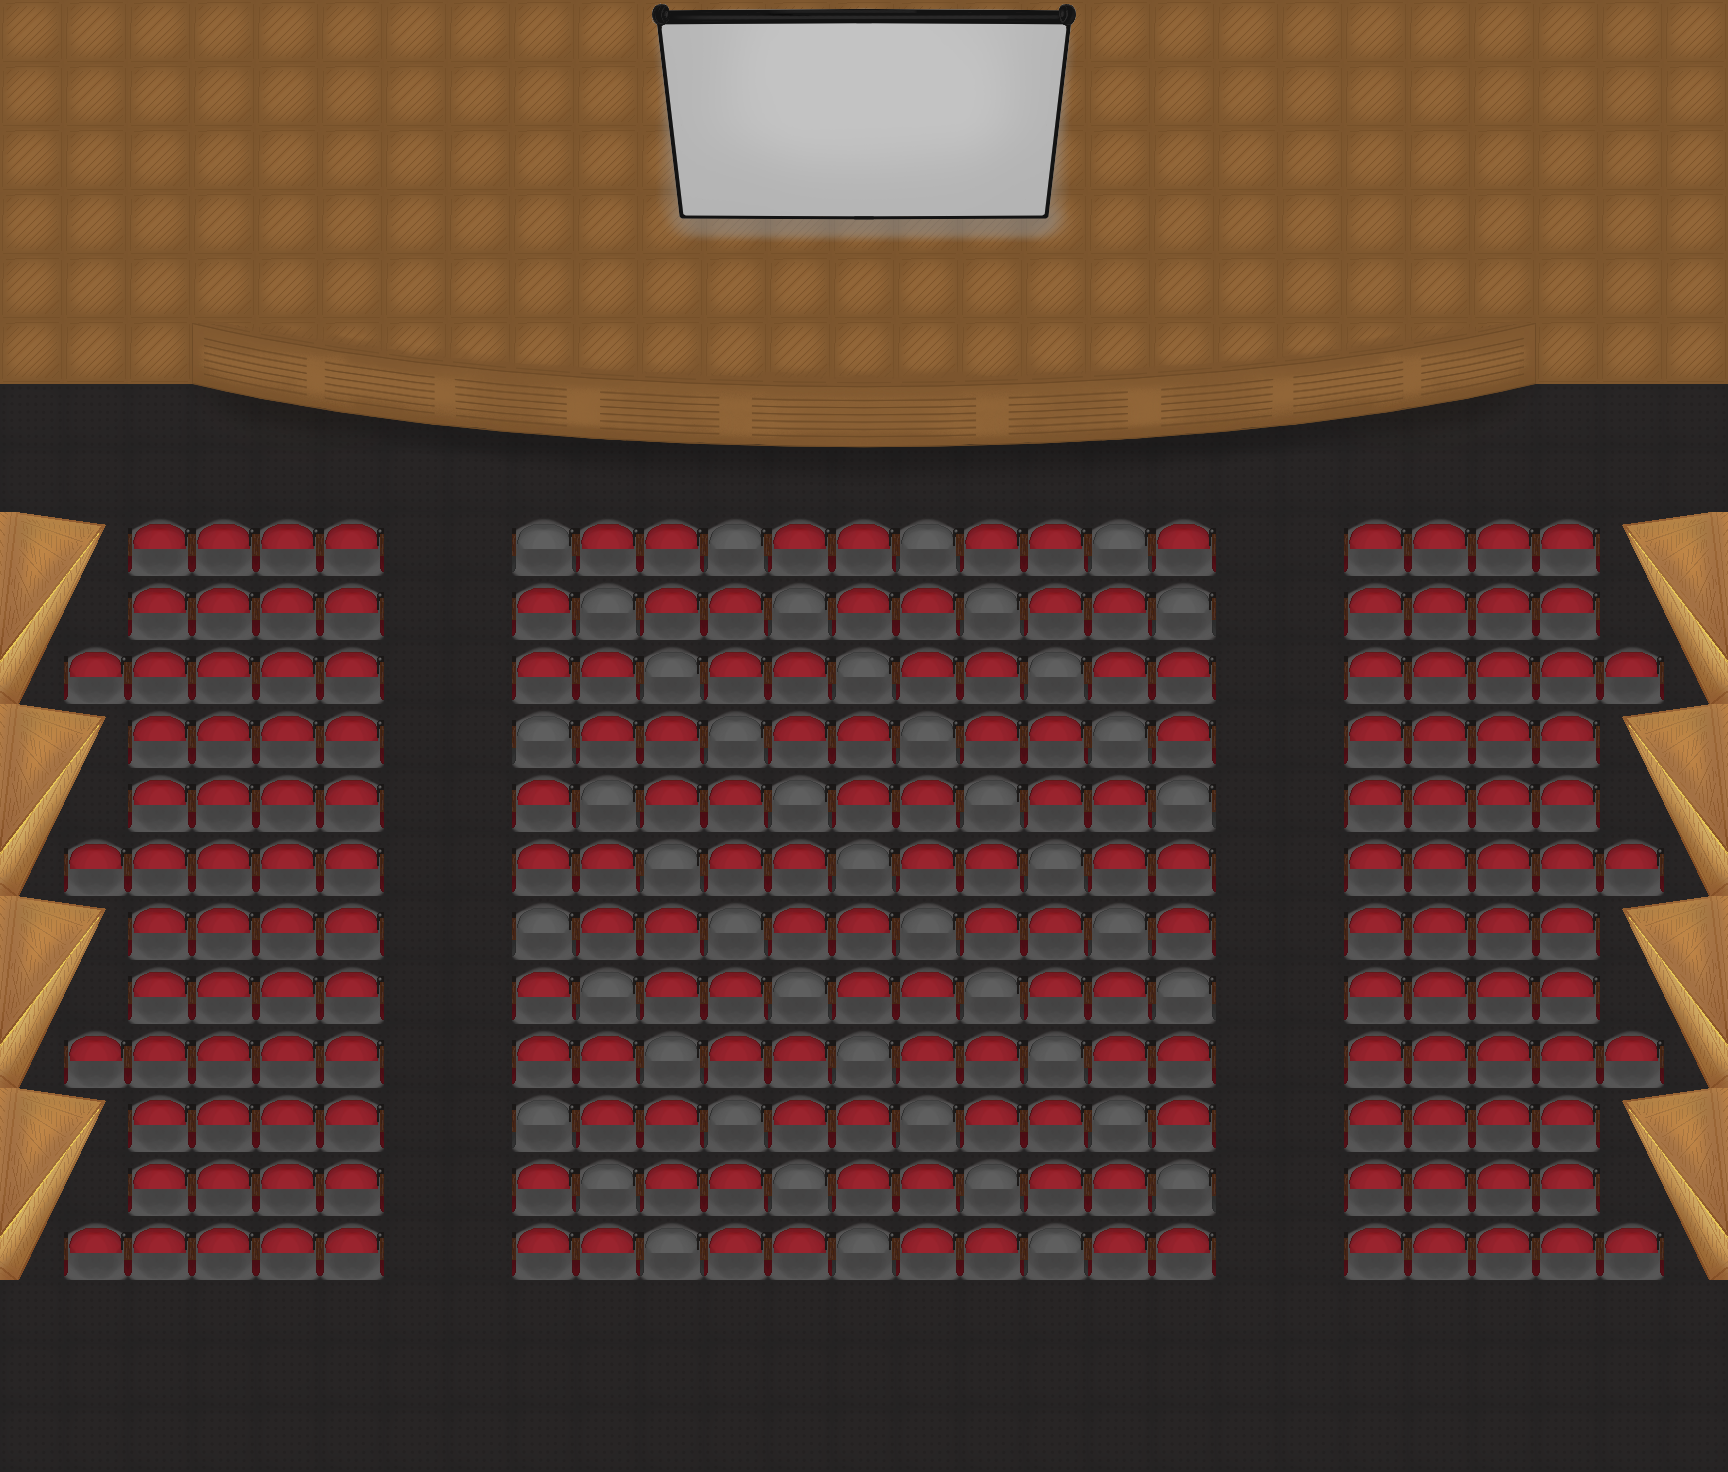
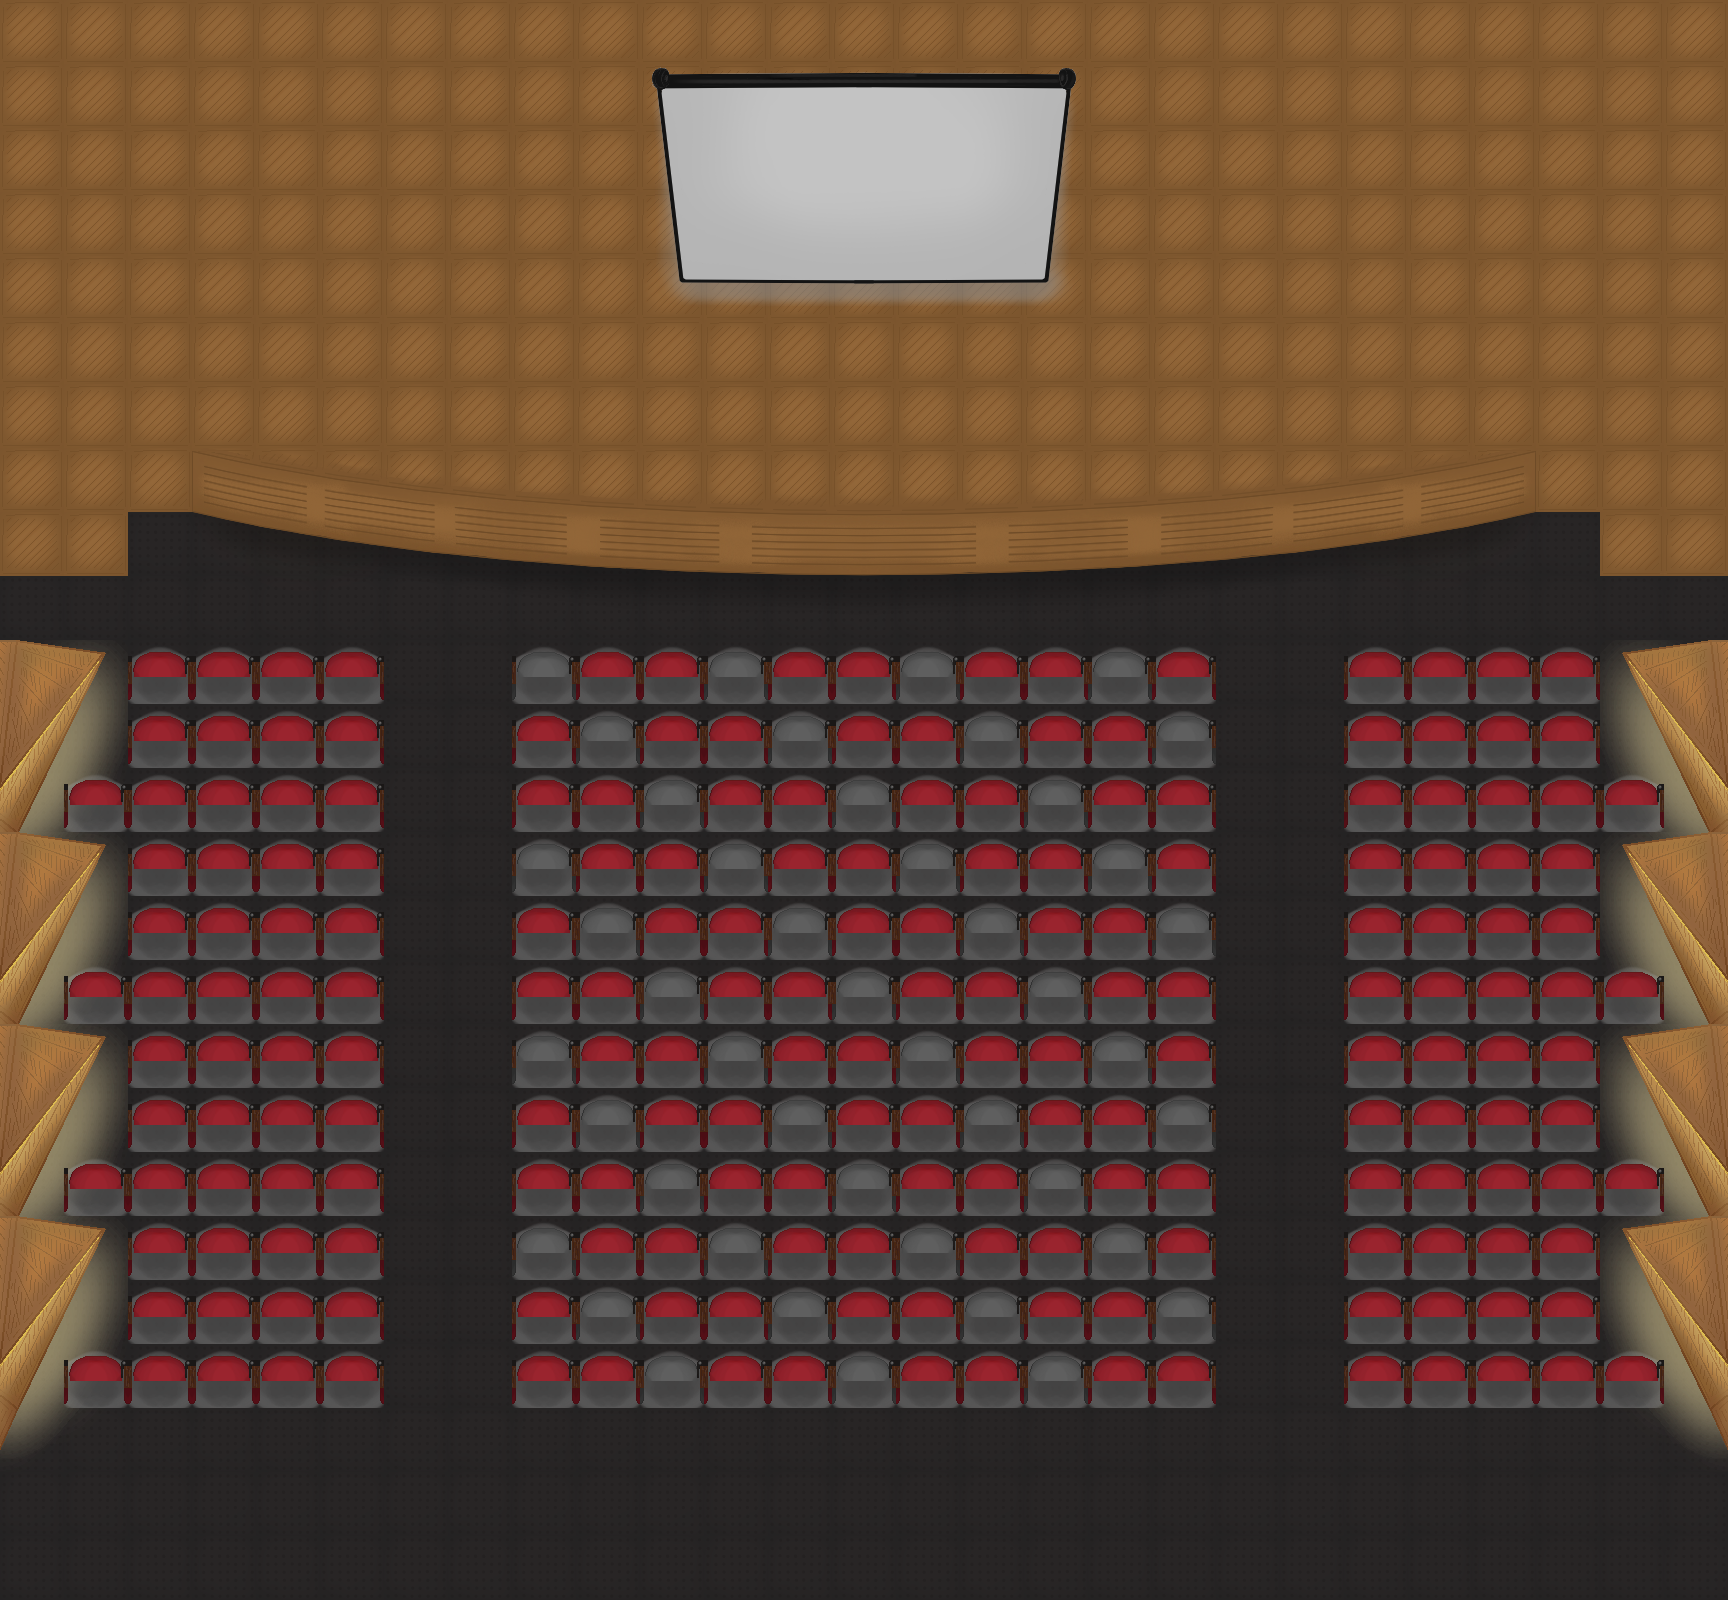
010

diff --git a/images.py b/images.py
@@ -32,10 +32,11 @@ def init():
     print('cargando mapa...')
 
     map1 = np.zeros((tabla_alto * step, tabla_ancho * step, 4), np.uint8)       # crea el primer mapa (piso)
-    
+    map2 = np.zeros((tabla_alto * step, tabla_ancho * step, 4), np.uint8)
+
     for nn in range(tabla_alto):
         for mm in range(tabla_ancho):
-            if 6 <= nn:
+            if 8 <= nn:
                 addd(0, nn, mm, map1, np.array(cv2.imread('sprites/goma.png', cv2.IMREAD_UNCHANGED)))
             else: 
                 addd(0, nn, mm, map1, np.array(cv2.imread('sprites/madera.png', cv2.IMREAD_UNCHANGED)))     # crea sa base del primer mapa solo con madera
@@ -48,20 +49,21 @@ def init():
         print(f'0/{tabla_alto} -- 2')
 
         for mm in range(tabla_ancho):
+            print(tablero.tabla[nn][mm][1])
             addd(1, nn, mm, map1, np.array(cv2.imread(f'sprites/{tablero.tabla[nn][mm][1]}', cv2.IMREAD_UNCHANGED)))    # con la funcion add suma las imagenes
 
-    # for nn in range(tabla_alto):
-    #     os.system('cls' if os.name == 'nt' else 'clear')
-    #     print('cargando mapa...')
+    for nn in range(tabla_alto):
+        os.system('cls' if os.name == 'nt' else 'clear')
+        print('cargando mapa...')
 
-    #     print(f'{tabla_alto}/{tabla_alto} -- 1')
-    #     print(f'{nn+1}/{tabla_alto} -- 2')
+        print(f'{tabla_alto}/{tabla_alto} -- 1')
+        print(f'{nn+1}/{tabla_alto} -- 2')
 
-    #     for mm in range(tabla_ancho):
-    #         addd(0, nn, mm, map2, np.array(cv2.imread(f'sprites/{tablero.tabla[nn][mm][2]}', cv2.IMREAD_UNCHANGED)))
+        for mm in range(tabla_ancho):
+            addd(0, nn, mm, map2, np.array(cv2.imread(f'sprites/{tablero.tabla[nn][mm][2]}', cv2.IMREAD_UNCHANGED)))
 
     cv2.imwrite('map1.png', map1)
-    # cv2.imwrite('map2.png', map2)
+    cv2.imwrite('map2.png', map2)
 
     cv2.waitKey(0)
     cv2.destroyAllWindows()

diff --git a/tablero.py b/tablero.py
@@ -1,6 +1,6 @@
 a1 = [1, 'blank.png',   'blank.png']                            #limites
-a2 = [1, 'lucesL.png',  'blank.png']                            #Luces L
-a3 = [1, 'lucesR.png',  'blank.png']                            #Luces R
+a2 = [1, 'luces/lucesL.png',  'blank.png']                            #Luces L
+a3 = [1, 'luces/lucesR.png',  'blank.png']                            #Luces R
 a4 = [1, 'telon.png',   'blank.png']
 a5 = [0, 'subida/subida_L.png', 'blank.png']
 a6 = [0, 'subida/subida_R.png', 'blank.png']
@@ -13,11 +13,13 @@ s2 = [2, 'sillas/silla_gris_base.png', 'sillas/silla_gris_respaldo.png']      #s
 p0 = [3, 'blank.png', 'blank.png', 'jorge']                  #Jorge Munoz
 
 tabla = [
+    [a1,a1,a1,a1,a1,a1,a1,a1,a1,a1,a1,a1,a1,a1,a1,a1,a1,a1,a1,a1,a1,a1,a1,a1,a1,a1,a1],
     [a1,a1,a1,a1,a1,a1,a1,a1,a1,a1,a4,a1,a1,a1,a1,a1,a1,a1,a1,a1,a1,a1,a1,a1,a1,a1,a1],
     [a1,a1,a1,a1,a1,a1,a1,a1,a1,a1,a1,a1,a1,a1,a1,a1,a1,a1,a1,a1,a1,a1,a1,a1,a1,a1,a1],
     [a1,a1,a1,a1,a1,a1,a1,a1,a1,a1,a1,a1,a1,a1,a1,a1,a1,a1,a1,a1,a1,a1,a1,a1,a1,a1,a1],
     [a1,a1,a1,a1,b1,b1,b1,b1,b1,b1,b1,b1,b1,b1,b1,b1,b1,b1,b1,b1,b1,b1,b1,a1,a1,a1,a1],
-    [a1,a1,b1,b1,b1,b1,b1,b1,b1,b1,b1,b1,b1,b1,b1,b1,b1,b1,p0,b1,b1,b1,b1,b1,b1,a1,a1],
+    [a1,a1,a1,a1,b1,b1,b1,b1,b1,b1,b1,b1,b1,b1,b1,b1,b1,b1,p0,b1,b1,b1,b1,a1,a1,a1,a1],
+    [a1,a1,b1,b1,b1,b1,b1,b1,b1,b1,b1,b1,b1,b1,b1,b1,b1,b1,b1,b1,b1,b1,b1,b1,b1,a1,a1],
     [a1,a1,a5,a1,a1,a1,a1,a1,b1,b1,b1,b1,b1,a6,b1,b1,b1,b1,b1,a1,a1,a1,a1,a1,b1,a1,a1],
     [a1,b1,b1,b1,b1,b1,b1,a1,a1,a1,a1,a1,a1,a1,a1,a1,a1,a1,a1,a1,b1,b1,b1,b1,b1,b1,a1],
     [a1,b1,b1,b1,b1,b1,b1,b1,b1,b1,b1,b1,b1,b1,b1,b1,b1,b1,b1,b1,b1,b1,b1,b1,b1,b1,a1],
